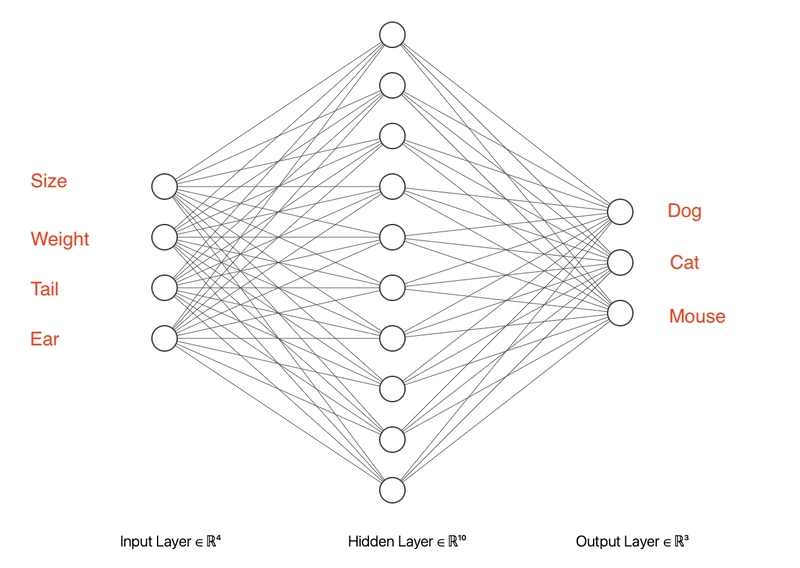
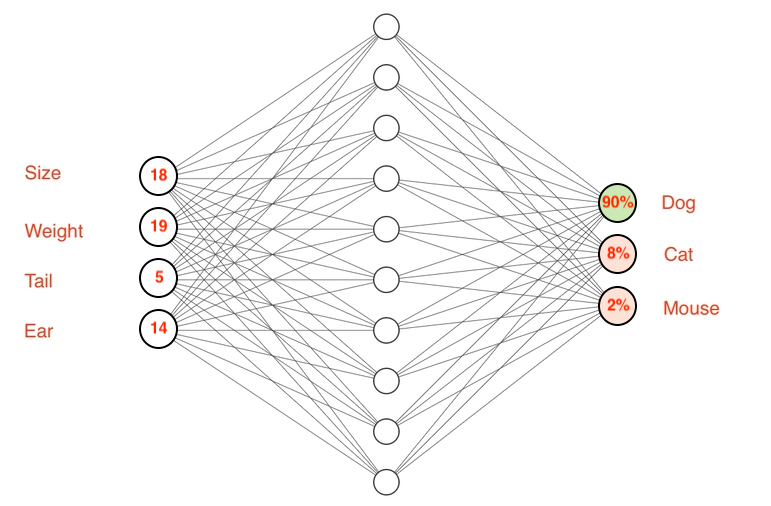
small update

diff --git a/tensorflow.html b/tensorflow.html
@@ -24,11 +24,23 @@
     <main>
         <section>
             <h2>What is TensorFlow?</h2>
-            <p>Tensorflow is a machine learning library that lets you create neural networks. This can be used for classification, regression, image recognition, and other machine learning tasks. Essentially, a neural network can <strong>recognise patterns in complex data</strong>.</p>
-            <p><a href="https://www.tensorflow.org/js">TensorflowJS</a> uses javascript and can run in the browser or in node. In this tutorial I want to create a simple <strong>classification network</strong>, just to get to grips with the <em>terminology, pitfalls and basic workflow</em> of tensorflowJS.</p>
+            <p>
+                Tensorflow is a machine learning library that lets you create neural networks. A neural network can <strong>recognise patterns in complex data</strong>. In this tutorial I want to create a simple <strong>classification network</strong>, the goal is to get to grips with the <em>terminology, pitfalls and basic workflow</em> of tensorflowJS.
+            </p>
 
             <h2>Neural Networks</h2>
-            <p>A neural network is essentially an algorithm that uses weights and activation functions, which allow it to recognise patterns in the most complicated data. <a href="https://playground.tensorflow.org/">Try it out here!</a></p>
+                
+                <p>A Neural Network is a collection of inputs and outputs that are all connected to each other. The idea is that this network can <em>learn</em> from data that it is presented with. In this tutorial we use <em>animal features (size, weight, tail length and ear length)</em> to teach the network to recognize dogs, cats and mice.<br>
+                <figure>
+                    <img class="illustration" src="./images/neuro-catdog.png" alt="Neural network diagram">
+                    <figcaption>Illustration: Neural network diagram for animal classification</figcaption>
+                </figure>
+
+                <ul>
+                    <li><a href="https://kokodoko.github.io/perceptron/">This animation</a> shows how a single-cell brain learns that cats have claws, but dogs don't.</a></li>
+                    <li><a href="https://playground.tensorflow.org/">You can build your own neural network in the TensorFlow playground</a></li>
+                </ul>
+            
         </section>
 
         <section>
@@ -64,7 +76,6 @@
         </section>
         <section>
 
-            <!-- <img src="./images/neuro-catdog.png" alt="Neural network diagram"> -->
 
             <!-- SVG NEURAL NETWORK - TODO ANIMATIONS -->
             <h1>Neural Network Architecture</h1>

diff --git a/css/style.css b/css/style.css
@@ -46,7 +46,7 @@ footer {
     max-width: 960px;
     margin: 0 auto;
     padding: 20px;
-        background: light-dark(#ffffffce, #1e1e1e88);
+    background: light-dark(#ffffffce, #1e1e1e88);
     border-radius: 8px;
 }
 
@@ -96,6 +96,17 @@ a:hover {
     opacity: 0.8;
     display: inline-block;
     margin:2px;
+}
+
+figure .illustration {
+    width:100%;
+    border-radius: 10px;
+    overflow: hidden;
+}
+
+pre {
+    border-radius: 10px;
+    overflow: hidden;
 }
 
 .grid-container-2,
